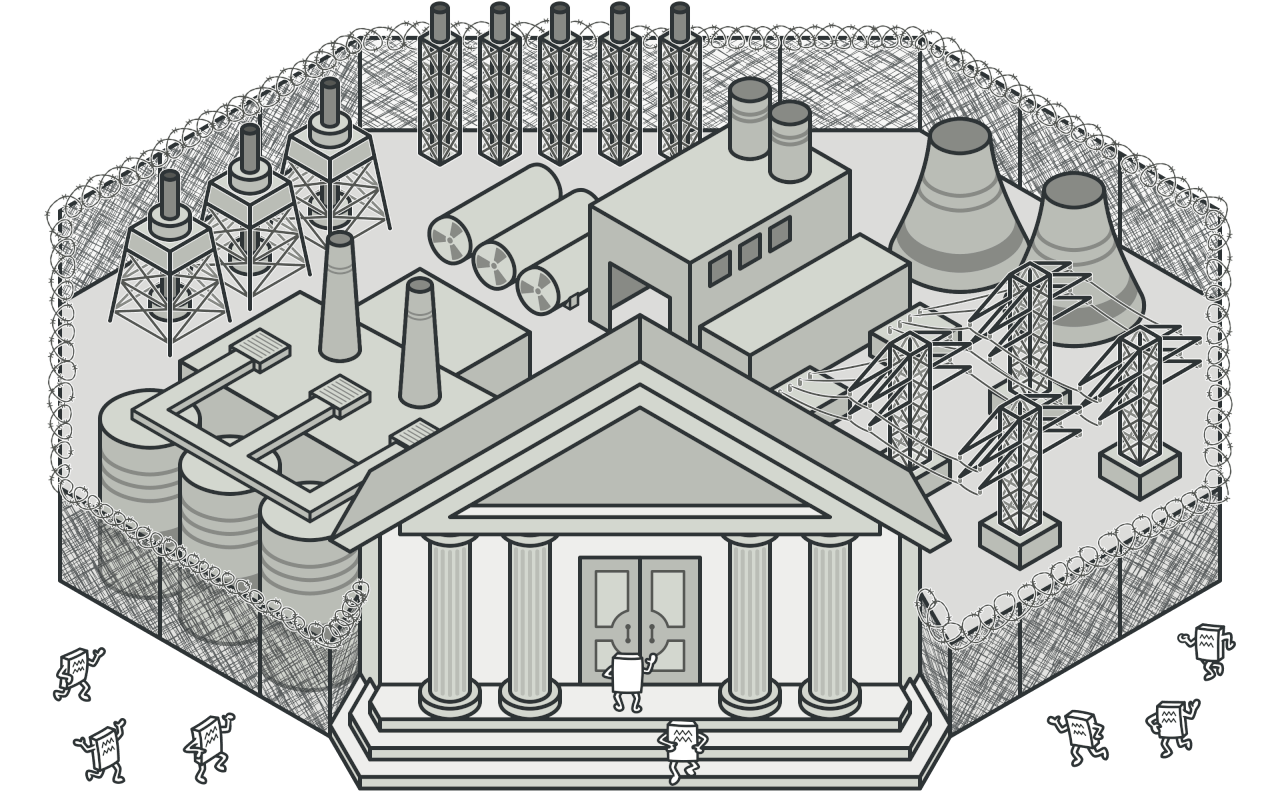
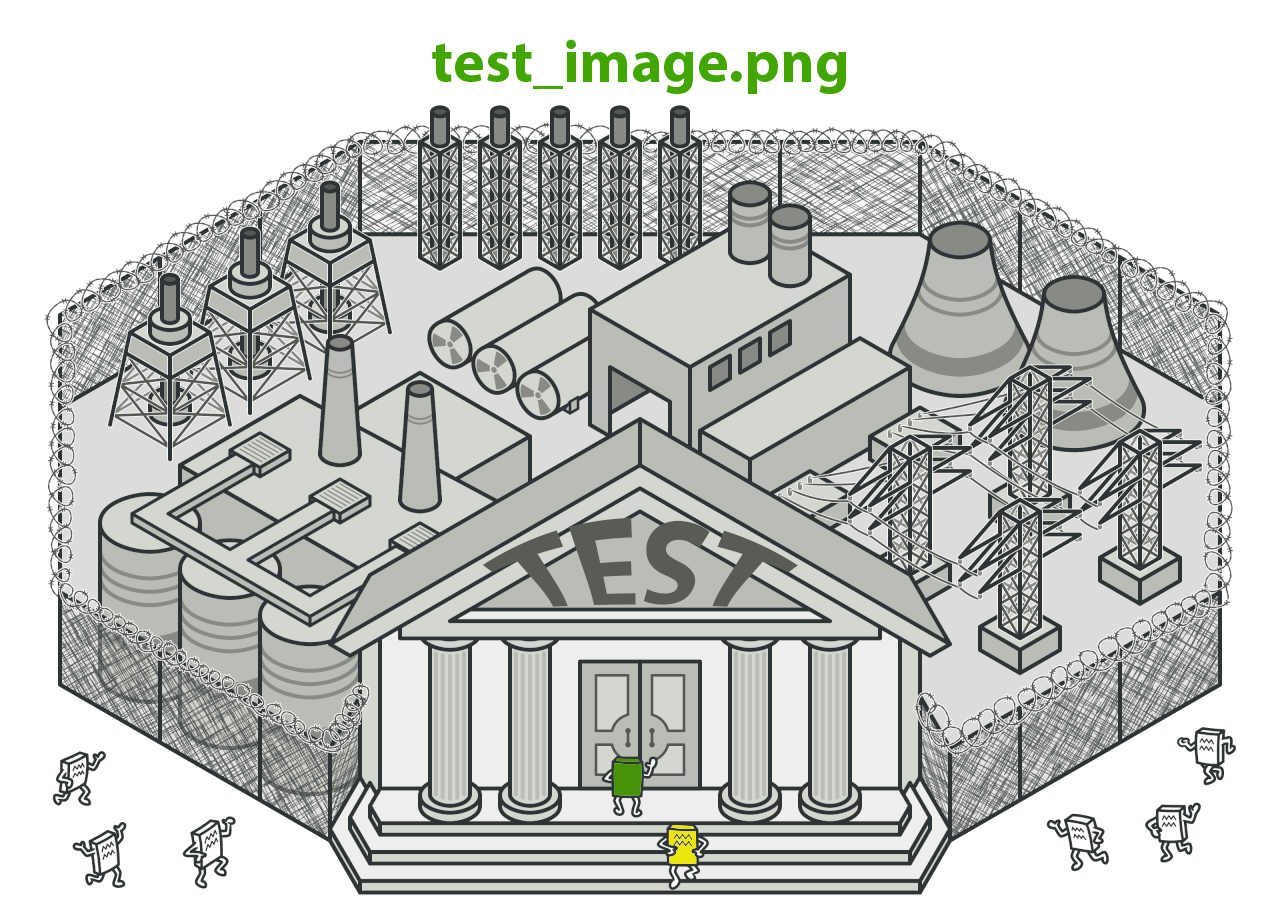
✔️

diff --git a/tools/assertions/files_assert.py b/tools/assertions/files_assert.py
@@ -2,8 +2,8 @@
 Files Assertions
 """
 import httpx
-from schemas.files import CreateFileResponseSchema
-from tools.assertions.base_assert import assert_value_len, assert_is_value
+from schemas.files import CreateFileResponseSchema, CreateFileRequestSchema
+from tools.assertions.base_assert import assert_value_len, assert_is_value, assert_value_equal
 
 #=======================================================================================================================
 def assert_create_file_values_non_empty(response: httpx.Response):
@@ -17,13 +17,48 @@ def assert_create_file_values_non_empty(response: httpx.Response):
     :param response: httpx.Response
     :raise AssertionError
     """
-    response_model = CreateFileResponseSchema.model_validate_json(response.text)    # httpx.Response —> Pydantic-model (Deserialize for Assertions)
+    response_model = CreateFileResponseSchema.model_validate_json(response.text)   # Response —> Pydantic-model (Deserialize for Assertions)
 
     assert_is_value(response_model.file.id, 'id')                # Поле не пустое
     assert_is_value(response_model.file.filename, 'filename')    # Поле не пустое
     assert_is_value(response_model.file.directory, 'directory')  # Поле не пустое
     assert_is_value(response_model.file.url, 'url')              # Поле не пустое
 
+
+
+def assert_create_file_data_equal(response: httpx.Response, request_model: CreateFileRequestSchema):
+    """
+    3-in-1 | Request Data = Response Data
+
+    - filename
+    - directory
+    - url
+
+    Actions:
+
+    - Response —> Pydantic-model (Deserialize for Assertions)
+
+    :param response: httpx.Response with File data
+    :param request_model: Pydantic-model with File data
+    :raise AssertionError
+    """
+    response_model = CreateFileResponseSchema.model_validate_json(response.text)   # Response —> Pydantic-model (Deserialize for Assertions)
+
+    # Create File Data = Created File Data:
+    assert_value_equal(
+        response_model.file.filename,
+        'filename',
+        request_model.filename)
+
+    assert_value_equal(
+        response_model.file.directory,
+        'directory',
+        request_model.directory)
+
+    assert_value_equal(
+        response_model.file.url,
+        'url',
+        f'http://localhost:8000/static/{request_model.directory}/{request_model.filename}')
 
 
 def assert_create_file_id_length(response: httpx.Response):

diff --git a/tests/files/test_create_file.py b/tests/files/test_create_file.py
@@ -8,7 +8,11 @@ from clients.files_client import FilesClient
 from schemas.files import CreateFileResponseSchema, CreateFileRequestSchema
 from tools.assertions.base_assert import assert_status_code, assert_method
 from tools.assertions.schema_assert import validate_json_schema
-from tools.assertions.files_assert import assert_create_file_id_length, assert_create_file_values_non_empty
+from tools.assertions.files_assert import (
+    assert_create_file_id_length,
+    assert_create_file_values_non_empty,
+    assert_create_file_data_equal
+)
 from tools.tool import Tool
 #=======================================================================================================================
 @pytest.mark.regression
@@ -25,6 +29,8 @@ class TestCreateFile:
         assert_create_file_id_length(response)                                     # File ID length = 36 chars
         validate_json_schema(response, CreateFileResponseSchema)   # Validation JSON schema
 
+        # API Report (optional)
+        #Tool.api_report(response)
 
 
     """v.2 - Через фикстуру получения экземпляра FilesClient"""
@@ -37,10 +43,11 @@ class TestCreateFile:
         assert_method(response, http.HTTPMethod.POST)      # Method
         assert_create_file_values_non_empty(response)                              # 4-in-1 | NON-empty response values
         assert_create_file_id_length(response)                                     # File ID length = 36 chars
+        assert_create_file_data_equal(response,create_file_data)  # 3-in-1 | Request File Data = Response File Data
         validate_json_schema(response, CreateFileResponseSchema)   # Validation JSON schema
 
 
         # API Report (optional)
-        # Tool.api_report(response)
+        Tool.api_report(response)
 
 #=======================================================================================================================

diff --git a/tests/users/test_create_user.py b/tests/users/test_create_user.py
@@ -24,7 +24,7 @@ class TestCreateUser:
         # Assertions
         assert_status_code(response, HTTPStatus.OK)          # Status code
         assert_method(response, HTTPMethod.POST)           # Method
-        assert_create_user_data_equal(response)                                    # Create User Data = Created User Data (4-in-1)
+        assert_create_user_data_equal(response)                                    # 4-in-1 | Request Data = Response Data
         validate_json_schema(response, CreateUserResponseSchema)   # Validation JSON schema
 
 
@@ -37,7 +37,7 @@ class TestCreateUser:
         # Assertions
         assert_status_code(response, HTTPStatus.OK)          # Status code
         assert_method(response, HTTPMethod.POST)           # Method
-        assert_create_user_data_equal(response)                                    # 4-in-1 | Create User Data = Created User Data
+        assert_create_user_data_equal(response)                                    # 4-in-1 | Request Data = Response Data
         validate_json_schema(response, CreateUserResponseSchema)   # Validation JSON schema
 
 
@@ -58,7 +58,7 @@ class TestCreateUser:
         # Assertions
         assert_status_code(response, HTTPStatus.OK)         # Status code
         assert_method(response, HTTPMethod.POST)          # Method
-        assert_create_user_data_equal(response)                                   # 4-in-1 | Create User Data = Created User Data
+        assert_create_user_data_equal(response)                                   # 4-in-1 | Request Data = Response Data
         validate_json_schema(response, CreateUserResponseSchema)  # Validation JSON schema
 
 

diff --git a/tools/assertions/users_assert.py b/tools/assertions/users_assert.py
@@ -8,7 +8,7 @@ from tools.assertions.base_assert import assert_value_equal
 #=======================================================================================================================
 def assert_create_user_data_equal(response: httpx.Response, request_model: CreateUserRequestSchema | None = None):
     """
-    4-in-1 | Create User Data = Created User Data
+    4-in-1 | Request Data = Response Data
 
     - email
     - last_name
@@ -31,7 +31,7 @@ def assert_create_user_data_equal(response: httpx.Response, request_model: Creat
         request_model = CreateUserRequestSchema.model_validate_json(response.request.content)  # Request —> Pydantic-model (Deserialize for Assertions)
 
 
-    # Create User Data = Created User Data:
+    # Request Data = Response Data:
     assert_value_equal(
         response_model.user.email,
         'email',

diff --git a/tools/assertions/base_assert.py b/tools/assertions/base_assert.py
@@ -65,7 +65,7 @@ def assert_value_equal(actual_obj: Any, obj_name: str, expected_obj: Any | str):
     """
     assert actual_obj == expected_obj, f"""
 {error_title}
-⚠️Values are not equal in "{obj_name}"
+⚠️Values are NOT equal in "{obj_name}"
 {exp} "{obj_name}": {expected_obj}
 {act} "{obj_name}": {actual_obj}
 """